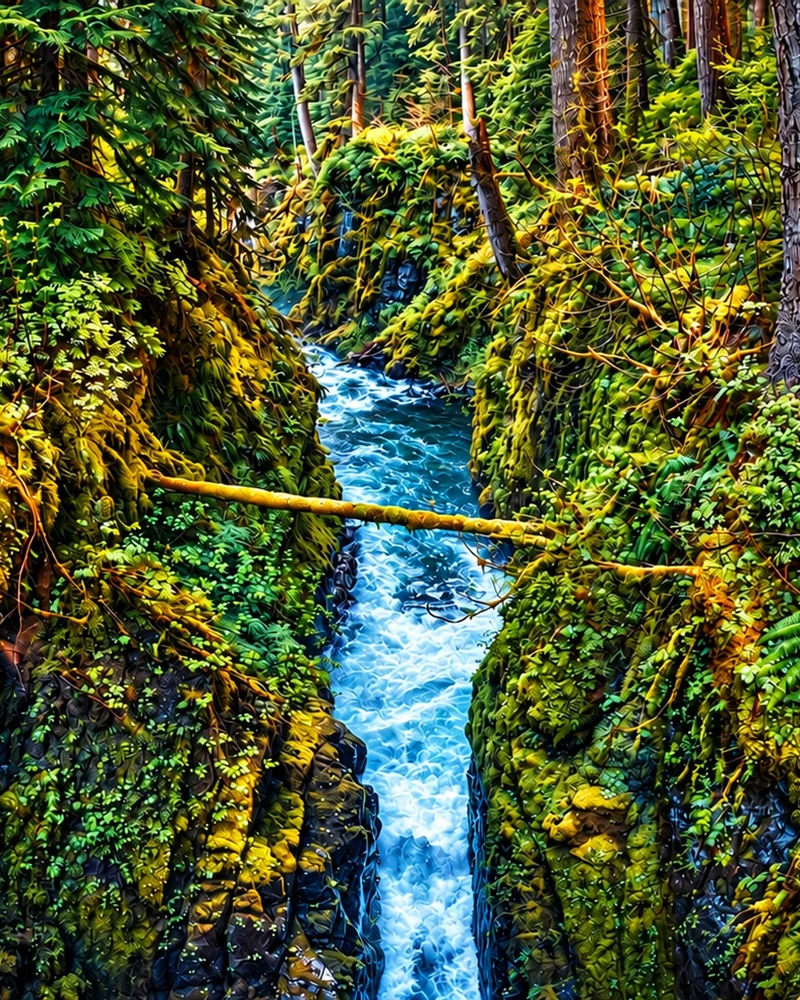
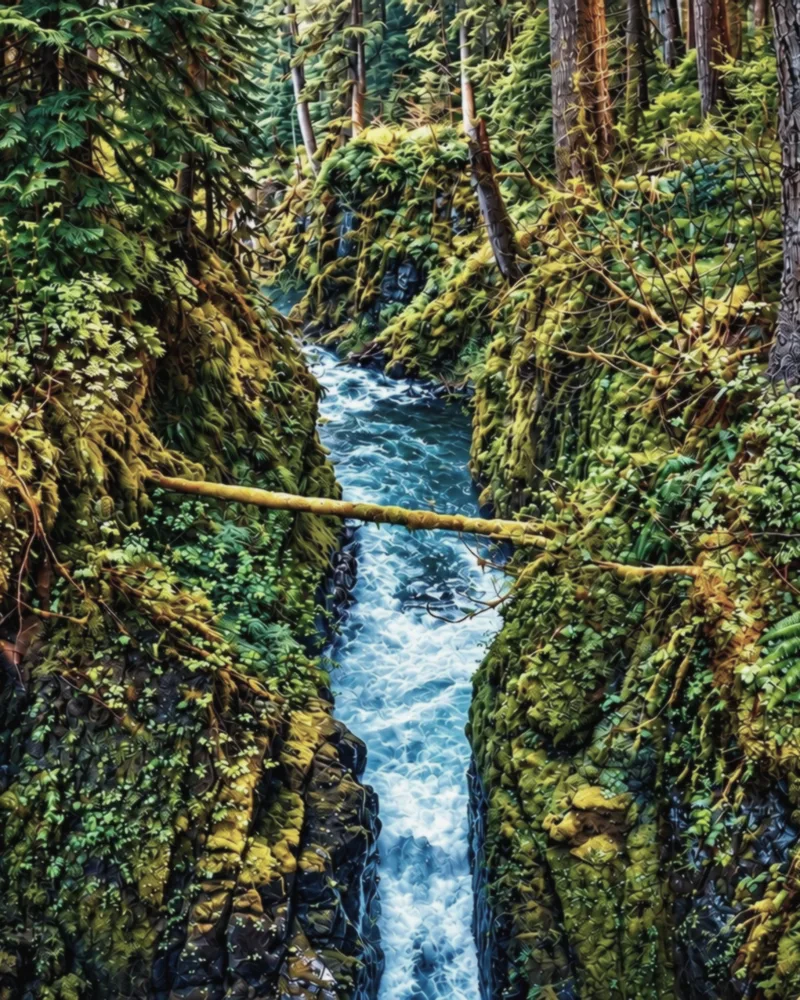
Outzide cards: drop the fixed corner reticle, calmer dot screen, natural-toned photos for the 12 new blended places

diff --git a/client/public/outzide-map/assets/blend-art.js b/client/public/outzide-map/assets/blend-art.js
@@ -28,7 +28,7 @@ const copier=(id,sat,curve)=>`<filter id="${id}" x="0" y="0" width="100%" height
 <feComposite in="blk" in2="c" operator="over" result="a"/><feComposite in="stk" in2="a" operator="over" result="d"/>
 <feComposite in="d" in2="SourceGraphic" operator="in"/></filter>`;
 let blDefs=null;const ensureDefs=()=>{if(blDefs&&blDefs.isConnected)return blDefs;let el=document.getElementById('bl-defs');if(!el){const sv=document.createElementNS('http://www.w3.org/2000/svg','svg');sv.setAttribute('width','0');sv.setAttribute('height','0');sv.style.position='absolute';sv.setAttribute('aria-hidden','true');el=document.createElementNS('http://www.w3.org/2000/svg','defs');el.id='bl-defs';sv.appendChild(el);document.body.appendChild(sv);el.innerHTML=DEFS_HTML}return blDefs=el};
-const DEFS_HTML=screenFilter('xdots',3,'dot',1.4,.7,.12)+screenFilter('xpop',4,'hatch',1.8,.12,.05)+copier('xcopyBW',0,'0 .02 .1 .42 .92 1 1')+copier('xcopyLC',.4,'0 .02 .16 .52 .9 1 1')+copier('xcopyCOL',.95,'0 .03 .2 .52 .88 1 1')+
+const DEFS_HTML=screenFilter('xdots',3,'dot',1.4,.86,.12)+screenFilter('xpop',4,'hatch',1.8,.12,.05)+copier('xcopyBW',0,'0 .02 .1 .42 .92 1 1')+copier('xcopyLC',.4,'0 .02 .16 .52 .9 1 1')+copier('xcopyCOL',.95,'0 .03 .2 .52 .88 1 1')+
  '<filter id="xglow" x="-10%" y="-10%" width="120%" height="120%"><feGaussianBlur in="SourceGraphic" stdDeviation="2.2" result="h"/><feGaussianBlur in="SourceGraphic" stdDeviation="10" result="b"/><feComponentTransfer in="b" result="b2"><feFuncA type="linear" slope=".4"/></feComponentTransfer><feMerge><feMergeNode in="b2"/><feMergeNode in="h"/><feMergeNode in="SourceGraphic"/></feMerge></filter>';
 
 // ======== geometry helpers ========
@@ -184,11 +184,11 @@ const RECIPES={
  palouse:{"W":800,"H":1000,"mesh":[[[410,620],[440,607],[480,610],[498,630],[492,650],[450,655],[415,645]]],"cutouts":[{"cls":"sky","look":"pop","poly":[[0,0],[800,0],[800,240],[700,252],[600,248],[500,258],[400,262],[300,268],[200,254],[120,262],[50,268],[0,270]]},{"cls":"fall","look":"bw","poly":[[378,625],[400,620],[430,622],[438,700],[444,800],[455,885],[420,900],[360,900],[368,800],[372,700]]},{"cls":"rock","look":"bw","poly":[[800,350],[765,370],[735,420],[710,480],[700,560],[698,650],[660,680],[625,700],[608,760],[600,830],[585,900],[640,885],[700,880],[800,870]]},{"cls":"rock","look":"lc","poly":[[0,350],[300,345],[600,350],[700,362],[712,470],[650,505],[560,525],[480,560],[420,600],[380,600],[330,570],[270,545],[262,440],[200,410],[60,415],[0,415]]},{"cls":"rock","look":"bw","poly":[[0,420],[50,425],[62,470],[62,555],[130,575],[250,565],[330,575],[378,600],[372,700],[365,790],[340,850],[300,882],[200,886],[100,900],[0,910]]},{"cls":"water","look":"col","poly":[[0,925],[60,915],[160,900],[260,892],[350,895],[450,890],[540,890],[585,900],[580,1000],[0,1000]],"ring":[400,925],"shore":2}]},
  hurricane:{"W":800,"H":1000,"mesh":[[[470,795],[500,780],[540,785],[580,800],[570,830],[520,840],[470,830]]],"cutouts":[{"cls":"sky","look":"pop","poly":[[0,0],[800,0],[800,215],[760,222],[740,235],[690,240],[640,190],[600,200],[540,180],[500,185],[460,200],[400,180],[350,178],[300,185],[240,172],[200,170],[150,185],[100,185],[70,178],[40,180],[0,200]]},{"cls":"snow","look":"bw","poly":[[0,205],[40,180],[80,180],[150,185],[200,172],[240,175],[300,185],[350,178],[400,185],[460,200],[500,190],[540,180],[600,190],[640,195],[690,240],[740,222],[800,238],[800,260],[760,250],[700,265],[650,245],[610,270],[560,260],[500,255],[470,240],[420,225],[380,235],[330,245],[310,255],[280,230],[240,215],[200,225],[150,220],[100,215],[40,225],[0,235]]},{"cls":"mountain","look":"lc","poly":[[0,235],[100,215],[200,225],[280,230],[330,250],[420,225],[500,255],[560,260],[650,250],[700,265],[800,260],[800,400],[700,395],[600,390],[500,380],[400,385],[300,370],[240,375],[200,370],[150,350],[80,330],[0,320]]},{"cls":"veg","look":"bw","poly":[[0,430],[100,420],[200,405],[300,385],[400,385],[450,420],[430,520],[420,620],[400,700],[330,740],[270,790],[240,870],[200,890],[100,900],[0,900]]},{"cls":"veg","look":"lc","poly":[[500,450],[560,470],[640,480],[720,500],[800,540],[800,640],[700,610],[600,620],[520,640],[480,700],[400,760],[330,780],[280,740],[300,700],[400,640],[440,560],[460,480]]},{"cls":"rock","look":"bw","poly":[[800,720],[740,735],[680,745],[620,760],[560,775],[490,790],[440,810],[420,850],[480,830],[560,840],[640,850],[720,850],[800,860]]}]},
  solduc:{"W":800,"H":1000,"mesh":[[[560,790],[600,770],[650,790],[660,830],[640,870],[585,875],[555,840]]],"cutouts":[{"cls":"water","look":"col","poly":[[300,345],[360,340],[440,350],[470,370],[470,430],[478,500],[510,555],[500,620],[475,680],[470,760],[480,840],[486,920],[490,1000],[388,1000],[385,900],[375,800],[350,720],[335,640],[350,570],[345,500],[335,420]],"ring":[430,860],"shore":2,"rings":3},{"cls":"veg","look":"bw","poly":[[0,0],[290,0],[300,150],[270,300],[300,345],[335,420],[345,500],[350,560],[335,640],[350,720],[0,720]]},{"cls":"veg","look":"bw","poly":[[520,0],[800,0],[800,300],[700,300],[560,330],[520,250],[480,130]]},{"cls":"veg","look":"lc","poly":[[470,370],[560,330],[700,300],[800,300],[800,560],[600,560],[510,555],[478,500],[470,430]]},{"cls":"rock","look":"bw","poly":[[0,720],[350,720],[375,800],[385,900],[388,1000],[0,1000]]},{"cls":"veg","look":"pop","poly":[[500,620],[800,600],[800,1000],[490,1000],[486,920],[480,840],[470,760],[475,680]]}]},
- proxy:{"W":800,"H":1000,"mesh":[[[675,600],[710,585],[745,600],[750,650],[735,690],[690,695],[670,650]]],"cutouts":[{"cls":"fall","look":"bw","poly":[[380,0],[470,0],[490,100],[500,250],[510,380],[540,480],[580,600],[600,700],[615,800],[620,900],[590,940],[470,935],[440,880],[430,800],[405,700],[385,640],[355,560],[345,450],[300,350],[300,150],[340,60]]},{"cls":"veg","look":"bw","poly":[[0,0],[380,0],[340,60],[300,150],[300,350],[345,450],[350,500],[0,500]]},{"cls":"veg","look":"lc","poly":[[0,500],[350,500],[355,560],[385,640],[405,700],[430,800],[440,880],[460,930],[470,1000],[0,1000]]},{"cls":"veg","look":"lc","poly":[[470,0],[800,0],[800,200],[700,230],[500,210],[500,130],[490,100]]},{"cls":"rock","look":"bw","poly":[[500,210],[700,230],[800,200],[800,420],[740,450],[620,430],[540,440],[510,380],[500,250]]},{"cls":"veg","look":"pop","poly":[[540,440],[620,430],[740,450],[800,420],[800,900],[700,890],[620,900],[615,800],[600,700],[580,600],[550,500]]}]},
- tumalo:{"W":800,"H":1000,"mesh":[[[440,930],[490,905],[550,915],[570,960],[540,1000],[450,1000],[420,970]]],"cutouts":[{"cls":"fall","look":"bw","poly":[[150,200],[200,160],[290,140],[330,150],[370,250],[430,360],[480,460],[500,540],[520,620],[555,700],[620,740],[690,790],[700,860],[620,880],[500,870],[420,830],[340,760],[300,680],[280,600],[250,520],[205,420],[195,330],[170,260]]},{"cls":"rock","look":"bw","poly":[[470,0],[800,0],[800,440],[740,420],[700,330],[600,300],[540,260],[500,150]]},{"cls":"veg","look":"lc","poly":[[450,350],[540,290],[610,305],[680,370],[730,440],[740,520],[745,700],[735,800],[690,790],[620,740],[555,700],[520,620],[500,540],[480,460],[430,360]]},{"cls":"rock","look":"pop","poly":[[0,720],[80,710],[130,790],[200,830],[240,900],[330,880],[390,930],[330,1000],[0,1000]]},{"cls":"veg","look":"lc","poly":[[0,0],[150,0],[150,200],[170,260],[195,330],[205,420],[250,520],[280,600],[300,680],[340,760],[300,820],[240,900],[200,830],[130,790],[80,710],[0,720]]},{"cls":"veg","look":"bw","poly":[[330,1000],[390,930],[420,860],[500,880],[620,880],[700,870],[740,900],[800,930],[800,1000]]}]},
- brandywine:{"W":800,"H":1000,"avoid":[],"mesh":[[[600,795],[640,778],[685,790],[680,850],[650,900],[620,960],[590,990],[565,930],[560,860],[575,815]]],"cutouts":[{"cls":"fall","look":"bw","poly":[[402,315],[450,310],[498,318],[500,400],[500,520],[500,700],[498,820],[490,890],[430,905],[360,890],[350,800],[350,650],[355,500],[370,400],[385,340]]},{"cls":"rock","look":"bw","poly":[[0,265],[100,255],[200,265],[300,290],[390,305],[385,340],[370,380],[250,385],[100,380],[0,375]]},{"cls":"rock","look":"bw","poly":[[500,318],[550,300],[600,330],[640,380],[620,470],[630,560],[600,620],[640,700],[600,760],[560,760],[520,700],[500,640],[502,520],[500,400]]},{"cls":"veg","look":"pop","poly":[[700,150],[790,130],[800,700],[760,720],[690,640],[640,560],[620,480],[640,380],[620,330],[690,250]]},{"cls":"veg","look":"lc","poly":[[0,380],[100,385],[250,390],[370,385],[355,500],[350,600],[300,640],[200,640],[100,650],[0,660]]},{"cls":"water","look":"col","poly":[[100,1000],[130,970],[200,935],[290,905],[360,890],[430,905],[490,890],[550,880],[570,930],[580,1000]],"ring":[430,910],"shore":2}]},
+ proxy:{"W":800,"H":1000,"mesh":[[[675,600],[710,585],[745,600],[750,650],[735,690],[690,695],[670,650]]],"cutouts":[{"cls":"fall","look":"bw","poly":[[380,0],[470,0],[490,100],[500,250],[510,380],[540,480],[580,600],[600,700],[615,800],[620,900],[590,940],[470,935],[440,880],[430,800],[405,700],[385,640],[355,560],[345,450],[300,350],[300,150],[340,60]]},{"cls":"veg","look":"bw","poly":[[0,0],[380,0],[340,60],[300,150],[300,350],[345,450],[350,500],[0,500]]},{"cls":"veg","look":"lc","poly":[[0,500],[350,500],[355,560],[385,640],[405,700],[430,800],[440,880],[460,930],[470,1000],[0,1000]]},{"cls":"veg","look":"lc","poly":[[470,0],[800,0],[800,200],[700,230],[500,210],[500,130],[490,100]]},{"cls":"veg","look":"bw","poly":[[500,210],[700,230],[800,200],[800,420],[740,450],[620,430],[540,440],[510,380],[500,250]]},{"cls":"veg","look":"pop","poly":[[540,440],[620,430],[740,450],[800,420],[800,900],[700,890],[620,900],[615,800],[600,700],[580,600],[550,500]]}]},
+ tumalo:{"W":800,"H":1000,"mesh":[[[440,930],[490,905],[550,915],[570,960],[540,1000],[450,1000],[420,970]]],"cutouts":[{"cls":"fall","look":"bw","poly":[[150,200],[200,160],[290,140],[330,150],[370,250],[430,360],[480,460],[500,540],[520,620],[555,700],[620,740],[690,790],[700,860],[620,880],[500,870],[420,830],[340,760],[300,680],[280,600],[250,520],[205,420],[195,330],[170,260]]},{"cls":"veg","look":"bw","poly":[[470,0],[800,0],[800,440],[740,420],[700,330],[600,300],[540,260],[500,150]]},{"cls":"veg","look":"lc","poly":[[450,350],[540,290],[610,305],[680,370],[730,440],[740,520],[745,700],[735,800],[690,790],[620,740],[555,700],[520,620],[500,540],[480,460],[430,360]]},{"cls":"veg","look":"pop","poly":[[0,720],[80,710],[130,790],[200,830],[240,900],[330,880],[390,930],[330,1000],[0,1000]]},{"cls":"veg","look":"lc","poly":[[0,0],[150,0],[150,200],[170,260],[195,330],[205,420],[250,520],[280,600],[300,680],[340,760],[300,820],[240,900],[200,830],[130,790],[80,710],[0,720]]},{"cls":"veg","look":"bw","poly":[[330,1000],[390,930],[420,860],[500,880],[620,880],[700,870],[740,900],[800,930],[800,1000]]}]},
+ brandywine:{"W":800,"H":1000,"avoid":[],"mesh":[[[600,795],[640,778],[685,790],[680,850],[650,900],[620,960],[590,990],[565,930],[560,860],[575,815]]],"cutouts":[{"cls":"fall","look":"bw","poly":[[402,315],[450,310],[498,318],[500,400],[500,520],[500,700],[498,820],[490,890],[430,905],[360,890],[350,800],[350,650],[355,500],[370,400],[385,340]]},{"cls":"veg","look":"bw","poly":[[0,265],[100,255],[200,265],[300,290],[390,305],[385,340],[370,380],[250,385],[100,380],[0,375]]},{"cls":"veg","look":"bw","poly":[[500,318],[550,300],[600,330],[640,380],[620,470],[630,560],[600,620],[640,700],[600,760],[560,760],[520,700],[500,640],[502,520],[500,400]]},{"cls":"veg","look":"pop","poly":[[700,150],[790,130],[800,700],[760,720],[690,640],[640,560],[620,480],[640,380],[620,330],[690,250]]},{"cls":"veg","look":"lc","poly":[[0,380],[100,385],[250,390],[370,385],[355,500],[350,600],[300,640],[200,640],[100,650],[0,660]]},{"cls":"water","look":"col","poly":[[100,1000],[130,970],[200,935],[290,905],[360,890],[430,905],[490,890],[550,880],[570,930],[580,1000]],"ring":[430,910],"shore":2}]},
  capelookout:{"W":800,"H":1000,"avoid":[],"mesh":[[[255,780],[270,830],[300,900],[330,960],[300,1000],[210,1000],[205,940],[240,900],[250,840]]],"cutouts":[{"cls":"sky","look":"bw","poly":[[0,0],[800,0],[800,250],[600,230],[300,140],[0,130]]},{"cls":"sky","look":"pop","poly":[[0,130],[300,140],[600,230],[800,250],[800,330],[700,335],[600,345],[520,365],[460,358],[400,355],[330,370],[275,400],[180,405],[0,395]]},{"cls":"mountain","look":"bw","poly":[[275,400],[330,370],[400,355],[460,358],[520,365],[600,345],[700,335],[800,330],[800,410],[720,412],[600,408],[480,408],[400,405]]},{"cls":"water","look":"col","poly":[[0,410],[170,410],[400,405],[600,410],[700,420],[680,500],[640,560],[580,620],[500,670],[420,720],[330,770],[250,820],[160,875],[80,920],[0,950]],"ring":[430,520],"shore":3},{"cls":"rock","look":"lc","poly":[[700,415],[780,440],[800,470],[800,520],[740,575],[690,595],[630,640],[590,690],[550,740],[510,800],[470,850],[420,900],[380,960],[330,1000],[0,1000],[0,950],[80,920],[160,875],[250,820],[330,770],[420,720],[500,670],[580,620],[640,560],[680,500]]},{"cls":"veg","look":"bw","poly":[[800,520],[800,1000],[330,1000],[380,960],[420,900],[470,850],[510,800],[550,740],[590,690],[630,640],[690,595],[740,575]]}]},
- latourell:{"W":800,"H":1000,"avoid":[],"mesh":[[[175,790],[215,775],[240,810],[245,850],[225,870],[185,860],[170,830]]],"cutouts":[{"cls":"fall","look":"bw","poly":[[388,100],[432,96],[440,200],[442,300],[444,420],[447,560],[448,700],[452,800],[448,880],[430,930],[390,930],[392,850],[390,700],[386,560],[380,420],[378,300],[382,200]]},{"cls":"rock","look":"bw","poly":[[90,500],[200,480],[385,520],[390,700],[160,705],[110,680],[80,600]]},{"cls":"veg","look":"pop","poly":[[488,140],[545,105],[620,140],[690,230],[720,300],[680,370],[620,420],[540,430],[505,350],[490,250]]},{"cls":"rock","look":"bw","poly":[[449,440],[540,430],[600,480],[600,560],[585,680],[560,760],[450,750],[447,560]]},{"cls":"veg","look":"lc","poly":[[700,300],[740,290],[770,400],[800,470],[800,1000],[560,1000],[520,900],[560,840],[600,770],[610,600],[650,460]]},{"cls":"water","look":"col","poly":[[300,905],[370,930],[440,925],[500,935],[545,940],[550,1000],[330,1000],[290,950]],"ring":[430,950],"shore":2}]}
+ latourell:{"W":800,"H":1000,"avoid":[],"mesh":[[[175,790],[215,775],[240,810],[245,850],[225,870],[185,860],[170,830]]],"cutouts":[{"cls":"fall","look":"bw","poly":[[388,100],[432,96],[440,200],[442,300],[444,420],[447,560],[448,700],[452,800],[448,880],[430,930],[390,930],[392,850],[390,700],[386,560],[380,420],[378,300],[382,200]]},{"cls":"veg","look":"bw","poly":[[90,500],[200,480],[385,520],[390,700],[160,705],[110,680],[80,600]]},{"cls":"veg","look":"pop","poly":[[488,140],[545,105],[620,140],[690,230],[720,300],[680,370],[620,420],[540,430],[505,350],[490,250]]},{"cls":"veg","look":"bw","poly":[[449,440],[540,430],[600,480],[600,560],[585,680],[560,760],[450,750],[447,560]]},{"cls":"veg","look":"lc","poly":[[700,300],[740,290],[770,400],[800,470],[800,1000],[560,1000],[520,900],[560,840],[600,770],[610,600],[650,460]]},{"cls":"water","look":"col","poly":[[300,905],[370,930],[440,925],[500,935],[545,940],[550,1000],[330,1000],[290,950]],"ring":[430,950],"shore":2}]}
 };
 const PLACE_MATCH=[['garibaldi',/Garibaldi Lake/i],['falls',/Silver Falls/i],['rooster',/Rooster Rock/i]];
 

diff --git a/client/src/components/xerox/Overlays.jsx b/client/src/components/xerox/Overlays.jsx
@@ -6,13 +6,13 @@ import {Grain,useSlot} from './Fx';
 import './xerox.css';
 
 // Animated overlay in the day colour. mode 'bottom' leans into the lower half (flyer events); 'center' wraps the logo.
-export function XeroxOverlay({mode='bottom',W=200,H=250,id='x'}){
+export function XeroxOverlay({mode='bottom',W=200,H=250,id='x',reticle=true}){
   const cx=mode==='bottom'?W*.72:W/2, cy=mode==='bottom'?H*.78:H/2;
   const ring=(k,ph)=>{const p=[];for(let i=0;i<=48;i++){const t=i/48*Math.PI*2,w=1+.07*Math.sin(3*t+ph)+.04*Math.sin(5*t+ph*1.7);p.push((cx+Math.cos(t)*k*w).toFixed(1)+','+(cy+Math.sin(t)*k*.78*w).toFixed(1))}return 'M'+p.join('L')+'Z'};
   const route=mode==='bottom'?`M6 ${H-8} C ${W*.22} ${H-26} ${W*.38} ${H*.84} ${cx-18} ${cy+8}`:`M6 ${H-10} C ${W*.2} ${H-30} ${W*.3} ${H*.7} ${cx-26} ${cy+12}`;
   const R=mode==='bottom'?[22,38,56,78]:[44,64,86,110];
   return <svg className={'xr-xo xr-xo-'+mode} viewBox={`0 0 ${W} ${H}`} preserveAspectRatio="none" aria-hidden="true">
-    <g fill="none" stroke="currentColor" strokeLinejoin="round">
+    {reticle&&<><g fill="none" stroke="currentColor" strokeLinejoin="round">
       {R.map((k,i)=><path key={i} d={ring(k,i*1.3)} strokeWidth={i%2?.7:1.1} opacity={i%2?.55:.9} className="xr-xo-cp" style={{animationDelay:`${-i*.9}s`}}/>)}
       <path d={ring(R[1],1.3)} stroke="#fff" strokeWidth="1" pathLength="1000" className="xr-xo-sweep"/>
     </g>
@@ -20,6 +20,7 @@ export function XeroxOverlay({mode='bottom',W=200,H=250,id='x'}){
     <circle r="2.6" fill="#fff"><animateMotion dur="4.6s" repeatCount="indefinite" path={route}/></circle>
     <g transform={`translate(${cx} ${cy})`}><circle r="13" fill="none" stroke="#fff" strokeWidth=".9" strokeDasharray="4 3" className="xr-xo-spin"/>
       <path d="M-20 -8V-20H-8M20 -8V-20H8M-20 8V20H-8M20 8V20H8" fill="none" stroke="#fff" strokeWidth="1.3"/></g>
+    </>}
     <rect className="xr-xo-scan" x="0" y="-30" width={W} height="30" fill="currentColor" opacity=".16"/>
   </svg>;
 }
@@ -49,7 +50,7 @@ export function OutzXerox({children,photo=false,blend=false,delay=0}){
     {children}
     {art&&createPortal(<>
       {photo&&src&&<><img className="xr-copy xr-copy-r" src={src} alt="" aria-hidden="true"/><img className="xr-copy xr-copy-c" src={src} alt="" aria-hidden="true"/></>}
-      {!blend&&<XeroxOverlay mode="bottom" W={200} H={230}/>}
+      {!blend&&<XeroxOverlay mode="bottom" W={200} H={230} reticle={false}/>}
       <Grain/>
     </>,art)}
   </div>;

diff --git a/client/src/components/outz/OutzBlendArt.tsx b/client/src/components/outz/OutzBlendArt.tsx
@@ -6,11 +6,11 @@ let engine:Promise<BlendModule>|undefined;
 let styles=false;
 /** The blend engine is a plain ES module shared with the Outzide map, loaded like the photo motion script so both draw the same art. */
 function loadEngine(){
- if(!styles){styles=true;const link=document.createElement('link');link.rel='stylesheet';link.href='/outzide-map/assets/blend-art.css?v=20261024-ease';document.head.append(link);}
+ if(!styles){styles=true;const link=document.createElement('link');link.rel='stylesheet';link.href='/outzide-map/assets/blend-art.css?v=20261024-calm';document.head.append(link);}
  return engine??=new Promise<BlendModule>((resolve,reject)=>{
   const scope=window as Window&{__outzBlendArt?:BlendModule};
   if(scope.__outzBlendArt){resolve(scope.__outzBlendArt);return;}
-  const script=document.createElement('script');script.type='module';script.src='/outzide-map/assets/blend-art.js?v=20261024-hud';
+  const script=document.createElement('script');script.type='module';script.src='/outzide-map/assets/blend-art.js?v=20261024-calm';
   script.onload=()=>scope.__outzBlendArt?resolve(scope.__outzBlendArt):reject(new Error('Blend art unavailable'));
   script.onerror=()=>reject(new Error('Blend art unavailable'));document.head.append(script);
  });

diff --git a/client/public/outzide-map/assets/blend-art.css b/client/public/outzide-map/assets/blend-art.css
@@ -1,6 +1,6 @@
 /* Blended Outzide art (see blend-art.js): small one-size dot base, six real-photo cutouts, free-floating lines, route HUD. */
 .bl{position:absolute;inset:0;overflow:hidden;container-type:inline-size;background:var(--z-black,#050506);isolation:isolate}
-.bl>.bl-base{position:absolute;left:0;right:0;top:var(--xt,0px);height:var(--xh,100%);width:100%;object-fit:fill;display:block;max-width:none;filter:url(#xdots) brightness(1.08) contrast(1.15)}
+.bl>.bl-base{position:absolute;left:0;right:0;top:var(--xt,0px);height:var(--xh,100%);width:100%;object-fit:fill;display:block;max-width:none;filter:url(#xdots) brightness(1.05) contrast(1.05)}
 .bl .xc{position:absolute;left:0;right:0;top:var(--xt,0px);height:var(--xh,100%);z-index:3;opacity:0;pointer-events:none;filter:drop-shadow(0 .6cqw 1cqw rgba(0,0,0,.55));animation:blon var(--d) steps(1) infinite,bljit var(--d) steps(1) infinite;animation-delay:var(--o),var(--o)}
 .bl .xc>img{position:absolute;inset:0;width:100%;height:100%;object-fit:fill;display:block;max-width:none}
 .bl .xc.bw>img{filter:url(#xcopyBW) contrast(1.45) brightness(1.2)}

diff --git a/client/public/outzide-map/assets/destination-photos.js b/client/public/outzide-map/assets/destination-photos.js
@@ -38,7 +38,7 @@ export function createPhotoMotion(scope=globalThis){
 
 // Blended art: the engine mounts into the marked photo span and the layered photo hides behind it. Falls back to the photo if it cannot load.
 const blendOff=new Set();let blendEngine;
-const loadBlend=()=>blendEngine??=import('./blend-art.js?v=20261024-hud');
+const loadBlend=()=>blendEngine??=import('./blend-art.js?v=20261024-calm');
 export function enhanceBlend(root=document){
  for(const entry of [...blendOff])if(!entry.el.isConnected){entry.off?.();blendOff.delete(entry);}
  root.querySelectorAll('.outz-photo[data-blend-place]:not([data-blend-ready])').forEach(el=>{

diff --git a/client/public/outzide-map/index.html b/client/public/outzide-map/index.html
@@ -26,7 +26,7 @@
 <link rel="stylesheet" href="assets/browse-sheet.css?v=20261014-redesign">
 <link rel="stylesheet" href="assets/library-motifs.css?v=20261016-library">
 <link rel="stylesheet" href="assets/destination-photos.css?v=20261024-wide">
-<link rel="stylesheet" href="assets/blend-art.css?v=20261024-ease"><link rel="stylesheet" href="assets/outz-demo.css?v=20261024-alt">
+<link rel="stylesheet" href="assets/blend-art.css?v=20261024-calm"><link rel="stylesheet" href="assets/outz-demo.css?v=20261024-alt">
 </head>
 <body class="outzide-shell" data-map="outzide" data-drawer="closed">
 <div class="oz-top">
